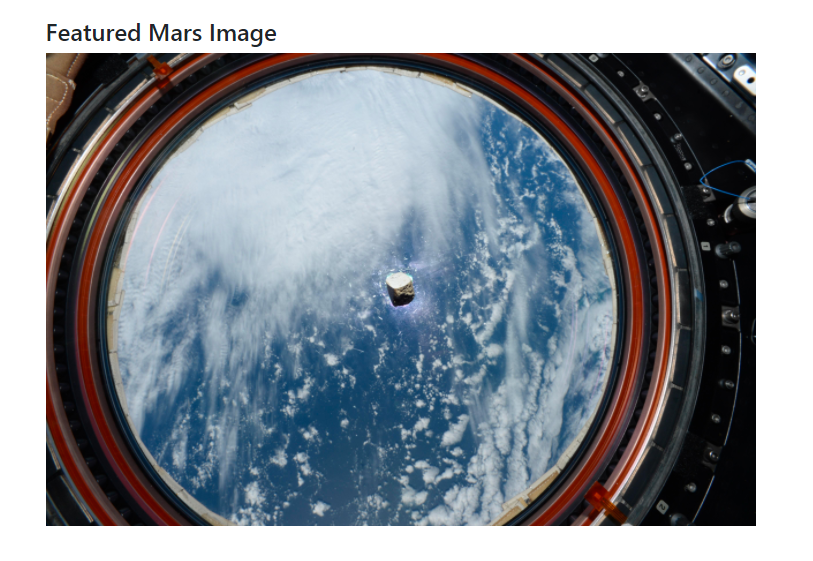
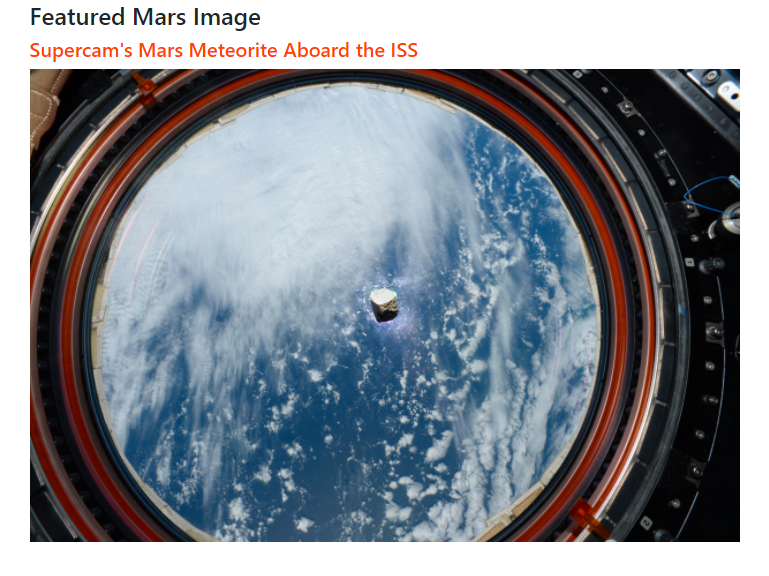
added featured image title

diff --git a/templates/index.html b/templates/index.html
@@ -33,9 +33,11 @@
             <div class="row" id="mars-featured-image">
                 <div class="col-lg-8 col-md-8 col-sm-12">
                 <h4>Featured Mars Image</h4>
+                <h5 style="color: #f05108">{{mars.img_title}}</h5>
                     <img src="{{mars.featured_image}}" class="img-responsive" style="max-width:100%; max-height: auto;" alt="Mars Featured Image"/>
                 </div>
             </div>
+            
         </div>
         <br>
         <br>        

diff --git a/scrape_mars.py b/scrape_mars.py
@@ -12,19 +12,24 @@ from webdriver_manager.chrome import ChromeDriverManager
 import time
 
 
+
 #################################################
 # Windows
 #################################################
 #Set Executable Path & Initialize Chrome Browser
-executable_path = {'executable_path': ChromeDriverManager().install()}
-browser = Browser('chrome', **executable_path, headless=False)
+def init_browser():
+    executable_path = {'executable_path': ChromeDriverManager().install()}
+    return Browser('chrome', **executable_path, headless=False)
 
 
 #################################################
 # NASA Mars News
 #################################################
 # NASA Mars News Site Web Scraper
-def mars_news(browser):
+def scrape():
+
+    browser = init_browser()
+    
     # Visit the NASA Mars News Site
     nasa_url = 'https://mars.nasa.gov/news/'
     browser.visit(nasa_url)
@@ -33,71 +38,64 @@ def mars_news(browser):
     nasa_html = browser.html
     soup_nasa = BeautifulSoup(nasa_html, "html.parser")
     
+    required_list = soup_nasa.find('ul', class_='item_list')
 
-    # Find Everything Inside:
-    #   <ul class="item_list">
-    #     <li class="slide">
-    try:
-        required_list = soup_nasa.select_one("ul.item_list li.slide")
-        required_list.find("div", class_="content_title")
+    required_list.find("div", class_="content_title")
 
-        # Scrape the Latest News Title
-        news_title = required_list.find("div", class_="content_title").get_text()
+    # Scrape the Latest News Title
+    # .text or .get_text()
+    news_title = required_list.find("div", class_="content_title").get_text()
 
-        # Scrape the Latest Paragraph Text
-        news_paragraph = required_list.find("div", class_="article_teaser_body").get_text()
+    # Scrape the Latest Paragraph Text
+    news_paragraph = required_list.find("div", class_="article_teaser_body").get_text()
 
-    except AttributeError:
-        return None, None
-
-    return news_title, news_paragraph
+    
 
 
+    
 #################################################
 # JPL Mars Space Images - Featured Image
 #################################################
 # NASA JPL (Jet Propulsion Laboratory) Site Web Scraper
-def featured_image(browser):
-#     # Visit the NASA JPL (Jet Propulsion Laboratory) Site
+
+    # Visit the NASA JPL (Jet Propulsion Laboratory) Site
     url_img = "https://www.jpl.nasa.gov/spaceimages/?search=&category=Mars"
     browser.visit(url_img)
 
-    link_bs = BeautifulSoup(browser.html,'lxml')
-    
     # Navigate to navbar and click on 4th button 'Galleries'
-    buttons = browser.find_by_tag('button')
-    buttons[4].click()
-    bs2 = BeautifulSoup(browser.html,'lxml')
+    first_button = browser.find_by_tag('button')
+    first_button[4].click()
+    
+    #Extract the title of the image
+    img_title_soup = BeautifulSoup(browser.html,'html.parser')
+    title = img_title_soup.find('div', class_='col-span-3').text
+    image_title = title.split('.')
+    img_title = image_title[1]
 
-    # Click on FEATURED IMAGE link
-    img = bs2.find_all(class_='text-subtitle-sm mb-2')[0].text.replace('\n','').strip()
-    browser.links.find_by_partial_text(img).click()
+    #Click on 'Featured Image' text (link)
+    browser.links.find_by_partial_text('Featured Image').click()
 
-    # Click on Download JPG button to obtain full size image url
-    bs3 = BeautifulSoup(browser.html,'lxml')
+    #Extract the title of Featured Image
+    # img_soup = BeautifulSoup(browser.html,'html.parser')
+    # img_soup2 = img_soup.find('div', class_='PageImageDetail ThemeLight')
+    # img_title = img_soup2.find('h1', class_='text-h2').text
+    
+    #Click on 'Download JPG' button to get full size image
     browser.links.find_by_partial_text('Download JPG').click()
 
-    # Link for full size url
-    bs4 = BeautifulSoup(browser.html,'lxml')
-    featured_img_url = bs4.find_all('img')[0]['src']
-
-    print(featured_img_url)
-    return featured_img_url
-
-
+    #Scrape the webpage to get the image url
+    featured_image_soup = BeautifulSoup(browser.html,'html.parser')
+    featured_url = featured_image_soup.find_all('img')[0]['src']
+    
 
 #################################################
 # Mars Facts
 #################################################
 # Mars Weather Twitter Account Web Scraper
-def mars_facts():
+
     # Visit the Mars Facts webpage 
     mars_url = 'https://space-facts.com/mars/'
     browser.visit(mars_url)
-    
-    # Parse Results HTML with BeautifulSoup
-    mars_html = browser.html
-    soup_mars = BeautifulSoup(mars_html, "html.parser")
     
     #Read all the tables on the page
     tables = pd.read_html(mars_url)
@@ -107,7 +105,7 @@ def mars_facts():
     facts_table.columns=["Description", "Mars"]
     facts_table.set_index("Description", inplace=True)
 
-    return facts_table.to_html(classes="table, table-striped")
+    facts_table = facts_table.to_html(classes="table, table-striped")
 
 
 
@@ -115,7 +113,7 @@ def mars_facts():
 # Mars Hemispheres
 #################################################
 # Mars Hemispheres Web Scraper
-def hemisphere(browser):
+
     # Visit the USGS Astrogeology Science Center Site
     astro_url = 'https://astrogeology.usgs.gov/search/results?q=hemisphere+enhanced&k1=target&v1=Mars)'
     browser.visit(astro_url)
@@ -157,49 +155,23 @@ def hemisphere(browser):
     
         # Append the retreived information into a list of dictionaries 
         hemisphere_image_urls.append({"title" : title, "img_url" : img_url})
+
     
-    # Display hemisphere_image_urls
-    return hemisphere_image_urls
-
-# Helper Function
-def scrape_hemisphere(html_text):
-    hemisphere_soup = BeautifulSoup(html_text, "html.parser")
-    try: 
-        title_element = hemisphere_soup.find("h2", class_="title").get_text()
-        sample_element = hemisphere_soup.find("a", text="Sample").get("href")
-    except AttributeError:
-        title_element = None
-        sample_element = None 
-    hemisphere = {
-        "title": title_element,
-        "img_url": sample_element
-    }
-    return hemisphere
-
-
-#################################################
-# Main Web Scraping Bot
-#################################################
-def scrape_all():
-    executable_path = {"executable_path": ChromeDriverManager().install()}
-    browser = Browser("chrome", **executable_path, headless=False)
-
-    news_title, news_paragraph = mars_news(browser)
-    featured_img_url = featured_image(browser)
-    facts = mars_facts()
-    hemisphere_image_urls = hemisphere(browser)
-    timestamp = dt.datetime.now()
-
+    #Store the scraped data in a dictionary
+ 
     data = {
         "news_title": news_title,
         "news_paragraph": news_paragraph,
-        "featured_image": featured_img_url,
-        "facts": facts,
-        "hemispheres": hemisphere_image_urls,
-        "last_modified": timestamp
+        "img_title": img_title,
+        "featured_image": featured_url,
+        "facts": facts_table,
+        "hemispheres": hemisphere_image_urls
+        
     }
+
+    # Close the browser after scraping
     browser.quit()
+
+    # Return results
     return data 
 
-# if __name__ == "__main__":
-#     print(scrape_all())

diff --git a/app.py b/app.py
@@ -3,7 +3,7 @@
 #################################################
 
 # Dependencies and Setup
-from flask import Flask, render_template
+from flask import Flask, render_template, redirect
 from flask_pymongo import PyMongo
 import scrape_mars
 
@@ -15,8 +15,7 @@ app = Flask(__name__)
 #################################################
 # PyMongo Connection Setup
 #################################################
-app.config["MONGO_URI"] = "mongodb://localhost:27017/mars_app"
-mongo = PyMongo(app)
+mongo = PyMongo(app, uri="mongodb://localhost:27017/mars_app")
 
 #################################################
 # Flask Routes
@@ -31,9 +30,11 @@ def index():
 @app.route("/scrape")
 def scrapper():
     mars = mongo.db.mars
-    mars_data = scrape_mars.scrape_all()
+    mars_data = scrape_mars.scrape()
     mars.update({}, mars_data, upsert=True)
-    return "Scraping Successful"
+    
+    # Redirect back to home page
+    return redirect("/")
 
 # Define Main Behavior
 if __name__ == "__main__":
